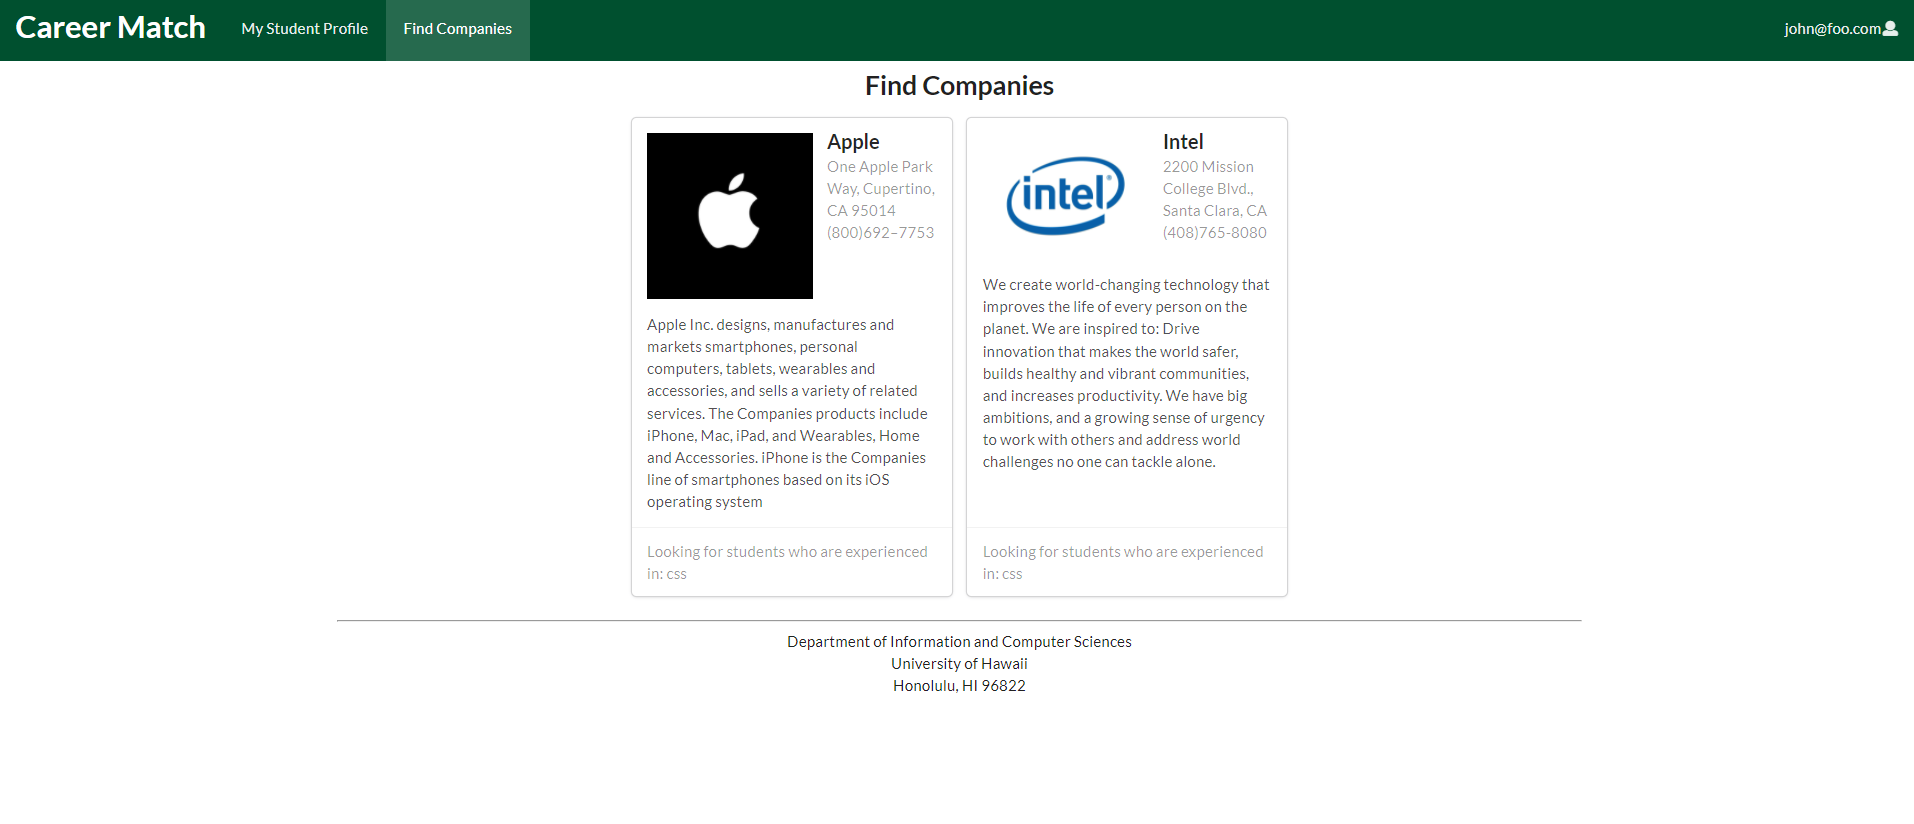
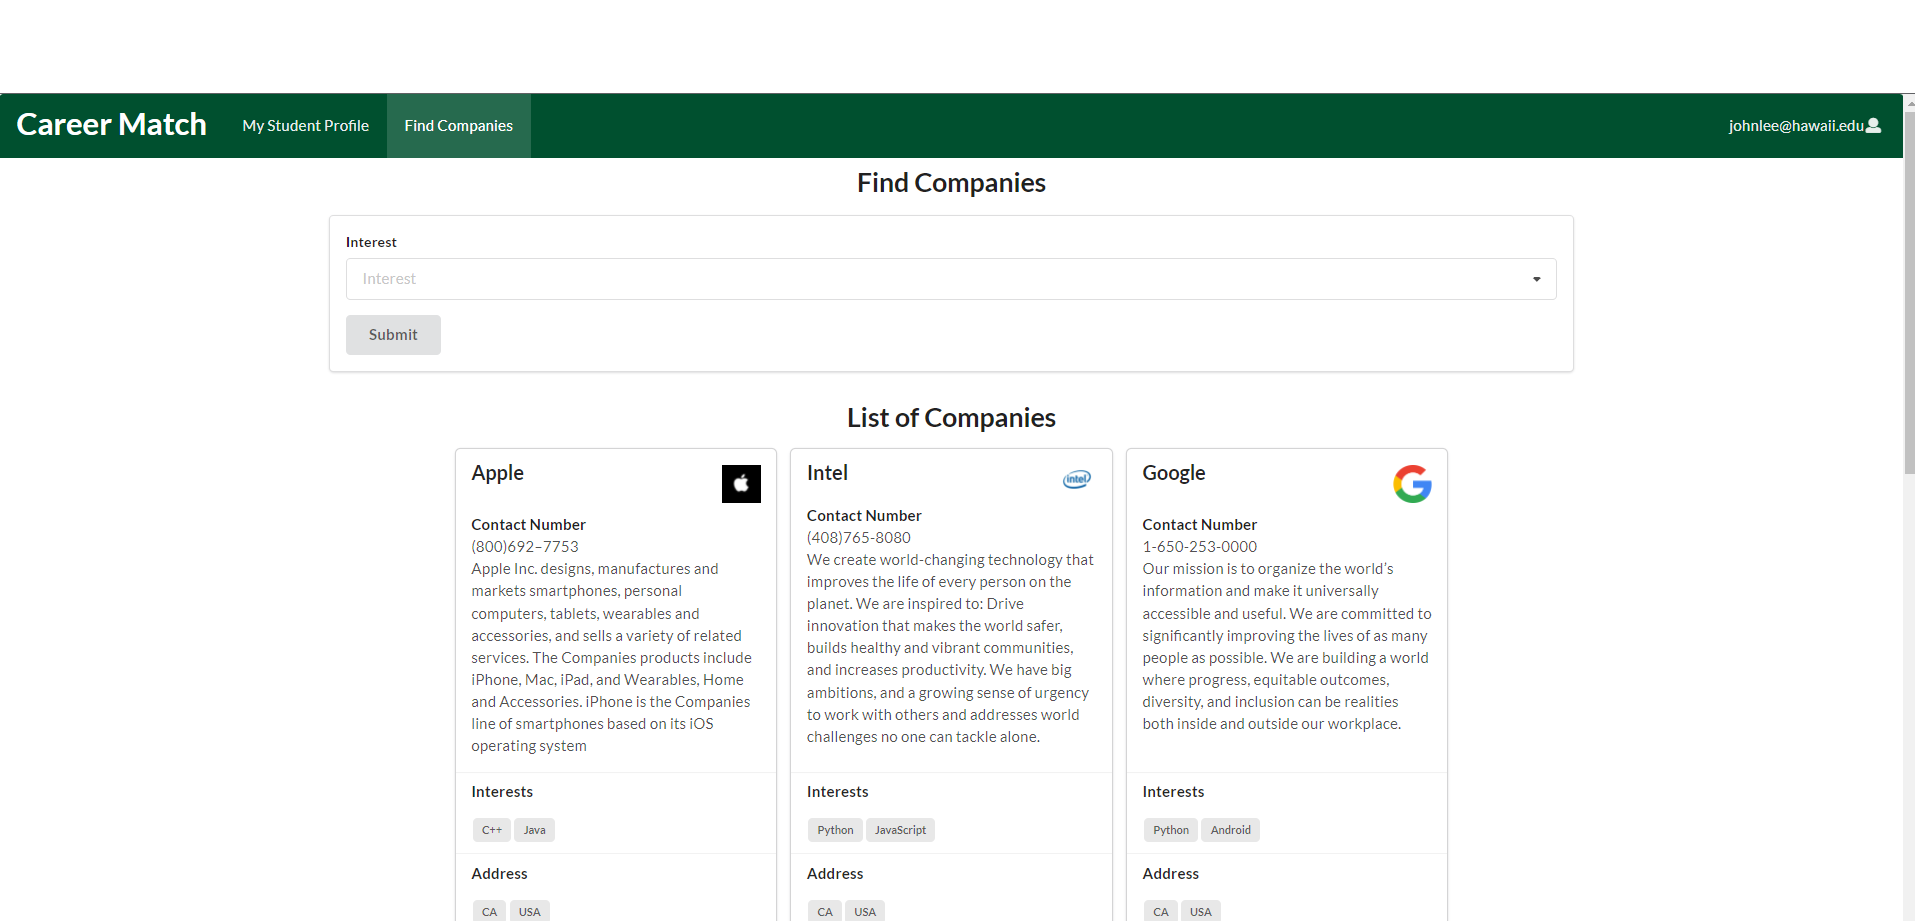
update index.md

diff --git a/index.md b/index.md
@@ -34,36 +34,44 @@ The landing page is the first page presented to the user. Helps with vistor to u
 <img src="doc/landingMockup3.PNG">
 
 ### Student home page
-The student home page is the page presented to the user who logged in as a student.
+The student home page is the page presented to the user who logged in as a student. New student can add their profile by click "Create Student Profile" or edit their profile by click "Edit Profile".
 
-<img src="doc/studenthome.png">
+<img src="doc/studentlanding.png">
 
 ### Company home page
-The company home page is the page presented to the user who logged in as a recruiter.
+The company home page is the page presented to the user who logged in as a recruiter. New company account can add their profile by clock "Create Company Profile" or edit their profile by click "Edit Company".
 
 <img src="doc/companylanding.png">
 
 ### Admin home page
-The admin home page is the page for the admin.
+The admin home page is the page for the admin. Admin can edit student/company profile and delete student/company profile.
 
-<img src="doc/CareerMatchAdminLanding.png">
+<img src="doc/adminlanding.png">
+
+### Admin edit/delete profiles
+Admin can edit and delete student/company profiles. The "edit" button only shows to admin, and admin can edit the profiles from the finding pages.
+
+<img src="doc/adminfind.png">
+<img src="doc/adminedit.png">
+
 
 ### Student profile page
-The student profile page is a page presented to the student with their profile. Student can edit their profile by click "edit".
+The student profile page is a page presented to the student with their profile. Student can edit their profile by click "Edit Your Student Profile".
 
 <img src="doc/studentprofile.png">
 
 ### Company profile page
-The company profile page is a page presented to the recruiter with their description of company. Recruiter can edit their profile by click "edit".
+The company profile page is a page presented to the recruiter with their description of company. Recruiter can edit their profile by click "Edit Your Company Profile".
 
 <img src="doc/companyprofile.png">
 
-### Browse companies and students by skill, geographic preference
-The page where users can search the companies/students by skills and geographic preference.
+### Browse companies and students by interests(skills)
+The page where users can search the companies/students by interests(skills).
 
-* wokring on the search field to browse it
 <img src="doc/findcompany.png">
+<img src="doc/findcompanysearch.png">
 <img src="doc/findstudent.png">
+<img src="doc/findstudentsearch.png">
 
 
 ## Community Feedback
